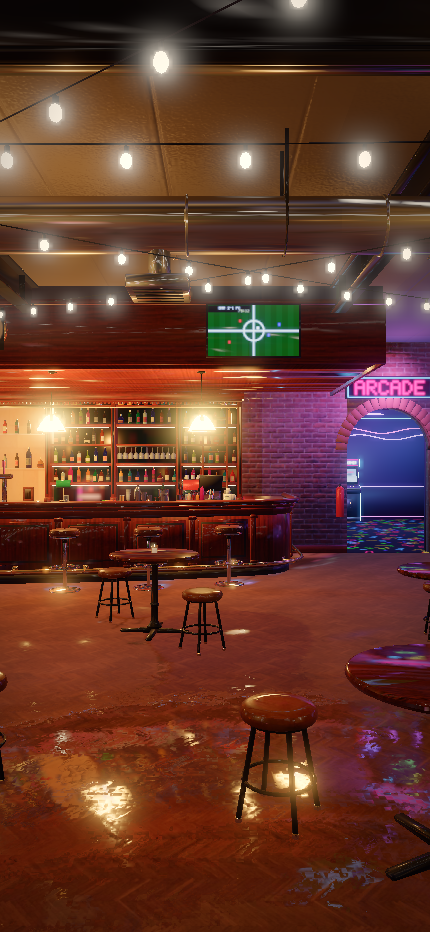
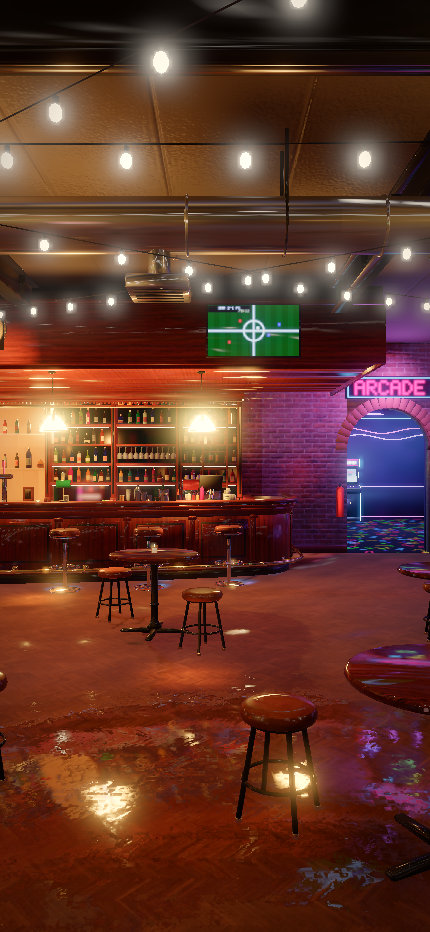
L1.5 Bounced light in the game: the GPU casts the build rays (looped/gi.h, shaders/gi.wgsl), one more bounce every frame, every pixel reads its 8 probes; the flat fill replaced; no lamp light through walls; debug views; shader check tool (e390b36)

diff --git a/README.md b/README.md
@@ -6,6 +6,32 @@ benchmarks by `tools/bench.mjs` (see `bench.jsonl`).
 
 Latest benchmark (2026-10-22 18:44, 922ec64): gi_triangles_full 642040 tris, gi_triangles 99105 tris, gi_load_ms 167 ms, gi_simplify_ms 28 ms, gi_bvh_ms 239 ms, gi_patches 58292, gi_probes_usable 10128, gi_build_ms 6666 ms, gi_rays_per_s 0.59 M/s, gi_solve4_ms 12.6 ms
 
+## L1.5 Bounced light in the game: the GPU casts the build rays (looped/gi.h, shaders/gi.wgsl), one more bounce every frame, every pixel reads its 8 probes; the flat fill replaced; no lamp light through walls; debug views; shader check tool
+
+`e390b36` · 2026-10-22 20:09 · 20 files, +1269 −13 · tests: changed · headless frame 169.82 ms, 288 draws
+
+Phone check: After entering, look around for a few seconds: walls and corners near lamps glow softly with bounced light; the arcade's purple spills onto the floor; nothing glows through walls. ?giview=1 shows the bounced light alone.
+
+![L1.5 door.jpg](L1.5/door.jpg)
+
+![L1.5 door-switch.jpg](L1.5/door-switch.jpg)
+
+![L1.5 mirror.jpg](L1.5/mirror.jpg)
+
+![L1.5 mirror-switch.jpg](L1.5/mirror-switch.jpg)
+
+![L1.5 bartop.jpg](L1.5/bartop.jpg)
+
+![L1.5 bartop-switch.jpg](L1.5/bartop-switch.jpg)
+
+![L1.5 backbar.jpg](L1.5/backbar.jpg)
+
+![L1.5 backbar-switch.jpg](L1.5/backbar-switch.jpg)
+
+![L1.5 piano.jpg](L1.5/piano.jpg)
+
+![L1.5 piano-switch.jpg](L1.5/piano-switch.jpg)
+
 ## L1.4 Bounced light, the core: still surfaces gathered and simplified, a ray tree, patches, probes, lamp links, bounces (CPU reference, physics test: a white box ends at 5x its direct light); tools/light.mjs, gi benchmark
 
 `1f6b899` · 2026-10-22 18:51 · 11 files, +1050 −20 · tests: changed
